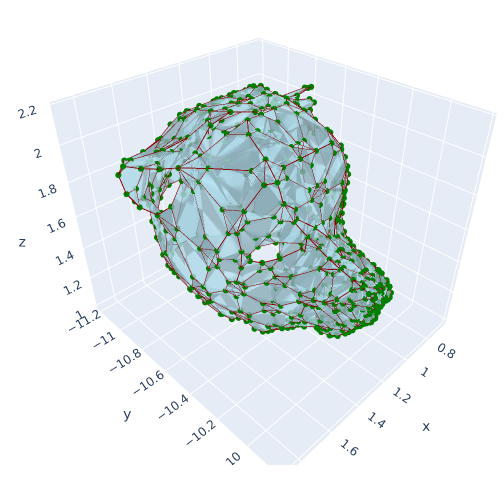
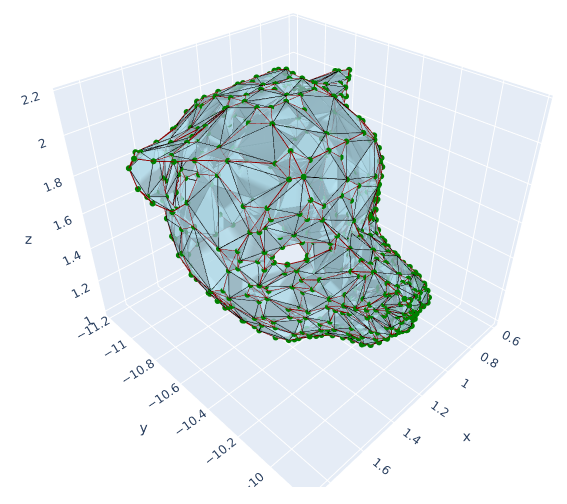
groups are stored on-load

diff --git a/polyhedron.py b/polyhedron.py
@@ -8,12 +8,13 @@ from dataholders import VirtualDict, VirtualSet
 from copy import deepcopy
 
 matrix.EPSILON = 10e-6
+MAX_GROUP_SEARCH_RECURSION = 10 # MAX_GROUP_SIZE
+VERBOSE_STEP = 10
 
 class Polyhedron:
-	def __init__(self, nodes : list[N.Node], vertex_list = None, vertex_index_list = None):
+	def __init__(self, nodes : list[N.Node], groups : list[Group] = None):
 		self.nodes = nodes
-		self.vertex_list = vertex_list
-		self.vertex_index_list = vertex_index_list
+		self.groups = groups
 
 	def __str__(self):
 		return '\n* '.join(map(str, self.nodes))
@@ -48,7 +49,7 @@ class Polyhedron:
 			for conn in node.get_connections_by_type(type_):
 				if conn not in connection_list:
 					connection_list.append(conn)
-		print('num connections (' + type_ + ') ', len(connection_list))
+		print('num connections (' + type_ + ')', len(connection_list))
 		return connection_list
 
 	@staticmethod
@@ -183,6 +184,7 @@ class Polyhedron:
 	def from_standard_vertex_lists(vertex_list : list[list[float]], vertex_index_list : list[list[int]]) -> Polyhedron:
 		# build nodes
 		nodes : list[N.Node] = list(map(N.Node.from_point, vertex_list))
+		groups : list[Group] = []
 		to_connect = []
 		# connect using the index list
 		for i in range(len(vertex_index_list)):
@@ -197,6 +199,8 @@ class Polyhedron:
 			# connect later
 			if group.size > 3:
 				to_connect.append(group)
+			# add group to list
+			groups.append(group)
 
 		# connect later
 		for ogroup in to_connect:
@@ -204,7 +208,7 @@ class Polyhedron:
 			ogroup.inter_connect('graphical', order_first = True)
 
 		# return polyhedron
-		return Polyhedron(nodes, vertex_list, vertex_index_list)
+		return Polyhedron(nodes, groups)
 
 	@staticmethod
 	def Chaikin3D(polyhedron : Polyhedron, n : int = 4, verbose : bool = False, file_mode : bool = False) -> Polyhedron:
@@ -219,7 +223,7 @@ class Polyhedron:
 		node_virt_dict : VirtualDict = VirtualDict()
 		new_connections : list[C.Connection] = []
 
-		print('Creating a deepcopy of the polyhedron nodes...')
+		if verbose: print('Creating a deepcopy of the polyhedron nodes...')
 		old_nodes = deepcopy(polyhedron.nodes)
 		sub_node_count = 0
 
@@ -227,7 +231,7 @@ class Polyhedron:
 		total_nodes = len(polyhedron.nodes)
 		if verbose: print('Calculating new node positions for {} verticies'.format(total_nodes))
 		for node_index,current_node in enumerate(polyhedron.nodes):
-			if verbose and node_index % 100 == 0: print('[{}/{}] done ({:.2f}%)'.format(node_index, total_nodes, 100 * node_index / total_nodes))
+			if verbose and node_index % VERBOSE_STEP == 0: print('[{}/{}] done ({:.2f}%)'.format(node_index, total_nodes, 100 * node_index / total_nodes))
 			#print('\ncurrent node:', current_node)
 			# create sub-nodes
 			num_new_connections = num_graphical_nodes = 0
@@ -286,37 +290,45 @@ class Polyhedron:
 		chaikin_group_list : list[Group] = []
 		processed_groups = VirtualSet()
 		if verbose: print('Reconnect the new nodes (using the old nodes as starting point)')
-		for old_node_index,old_node in enumerate(old_nodes):
-			if verbose and old_node_index % 100 == 0: print('[{}/{}] done (old nodes) ({:.2f}%)'.format(old_node_index, total_nodes, 100 * old_node_index / total_nodes))
-			# find all the old groups that this 'old_node' is part of
-			old_group_list : list[VirtualSet] = Polyhedron._find_chaikin_groups_for_node(old_node)
-			for old_group in filter(lambda g: g not in processed_groups, old_group_list):#	and Polyhedron._nec_group_cond(g), old_group_list):
-				new_group : VirtualSet = VirtualSet()
-				for old_node_2 in old_group:
-					new_nodes = node_virt_dict[old_node_2]
-					for new_node in new_nodes:
-						for other_old_node in old_group:
-							if old_node_2 != other_old_node and any([C.Connection.are_connected(new_node, other_new_node) for other_new_node in node_virt_dict[other_old_node]]):
-								break
-						else:
-							continue
-						# found
-						new_group.add(new_node)
-						# don't break because there are two new nodes per old node
+		for index,old_group in enumerate(polyhedron.groups):
+			if verbose and index % VERBOSE_STEP == 0: print('[{}/{}] done (old nodes) ({:.2f}%)'.format(index, total_nodes, 100 * old_node_index / total_nodes))
+			new_group : VirtualSet = VirtualSet()
+			for old_node_2 in old_group:
+				new_nodes = node_virt_dict[old_node_2]
+				for new_node in new_nodes:
+					for other_old_node in old_group:
+						if old_node_2 != other_old_node and any([C.Connection.are_connected(new_node, other_new_node) for other_new_node in node_virt_dict[other_old_node]]):
+							break
+					else:
+						continue
+					# found
+					new_group.add(new_node)
+					# don't break because there are two new nodes per old node
 
-				if new_group not in chaikin_group_list:
-					chaikin_group_list.append(new_group)
-				processed_groups.add(old_group)
+			if new_group not in chaikin_group_list:
+				chaikin_group_list.append(new_group)
+			processed_groups.add(old_group)
 
 		total_groups = len(chaikin_group_list)
 		group_objects = list(map(Group, chaikin_group_list))
 		if verbose: print('Ordering the groups ({})'.format(total_groups))
 		#print('num raw groups:', len(group_objects))
-		for group in group_objects: group.order()
+		i = 0
+		total = len(group_objects)
+		max_group_size = MAX_GROUP_SEARCH_RECURSION + 3
+		while i < total:
+			group = group_objects[i]
+			if verbose and i % VERBOSE_STEP == 0: print('[{}/{}] done ({:.2f}%)'.format(i, total_groups, 100 * i / total_groups))
+			if group.size > max_group_size:
+				group_objects.pop(i)
+				total -= 1
+				continue
+			group.order()
+			i += 1
 
 		if verbose: print('Connecting the groups ({})'.format(total_groups))
 		for i,group in enumerate(group_objects):
-			if verbose and i % 100 == 0: print('[{}/{}] done ({:.2f}%)'.format(i, total_groups, 100 * i / total_groups))
+			if verbose and i % VERBOSE_STEP == 0: print('[{}/{}] done ({:.2f}%)'.format(i, total_groups, 100 * i / total_groups))
 			group.inter_connect('graphical')
 
 		# construct new node list
@@ -371,14 +383,29 @@ class Polyhedron:
 		return chaikin_group_set_list
 
 	@staticmethod
-	def _rec_find_chaikin_group_with_plane(start_node : N.Node, end_node : N.Node, second_node : N.Node, current_node : N.Node, current_group : VirtualSet, plane : matrix.Plane) -> list[VirtualSet]:
+	def _rec_find_chaikin_group_with_plane(start_node : N.Node, end_node : N.Node, second_node : N.Node, current_node : N.Node, current_group : VirtualSet, plane : matrix.Plane, depth : int = 0) -> list[VirtualSet]:
 
 		# end of group ?
 		if current_node == end_node:
 			return [current_group]
+		if depth > MAX_GROUP_SEARCH_RECURSION:
+			#print('RECURSION BREAK')
+			return []
 		# invalid node ?
 		if current_node in current_group or not plane.point_on_plane(current_node.coords):
 			return []
+		'''
+		else:
+			for i in range(len(current_group) - 1):
+				if not C.Connection.are_connected(current_group[i], current_group[i + 1], 'main'):
+					raise Exception('hm')
+				if i > 2:
+					if current_group[i].coords in map(lambda n: n.coords, list(current_group[:i]) + list(current_group[i+1:])):
+						raise Exception('hm2')
+			if not all([plane.point_on_plane(node.coords) for node in current_group]):
+				print('yes')
+			print(len(current_group))
+		'''
 
 		# add to group
 		current_group.add(current_node)
@@ -394,7 +421,8 @@ class Polyhedron:
 				second_node,
 				partner_node,
 				current_group.copy(),
-				plane
+				plane,
+				depth + 1
 			)
 			# add unique groups
 			for group in sub_local_group_set_list:

diff --git a/dataholders.py b/dataholders.py
@@ -30,11 +30,15 @@ class VirtualDict:
 class VirtualSet:
     def __init__(self, iterable = []):
         self.data = []
-        for value in iterable:
-            if value not in self.data:
-                self.data.append(value)
+        if iterable:
+            if type(iterable) == VirtualSet or type(iterable) == set:
+                self.data = list(iterable)
             else:
-                print('Warning: doublon in VirtualSet initial-data iterable')
+                for value in iterable:
+                    if value not in self.data:
+                        self.data.append(value)
+                    else:
+                        print('Warning: doublon in VirtualSet initial-data iterable')
         self.size = len(self.data)
 
     def __str__(self):
@@ -67,6 +71,6 @@ class VirtualSet:
         return self.data.pop(0)
 
     def copy(self):
-        return VirtualSet(self.data.copy())
+        return VirtualSet(self)
 
 #

diff --git a/node.py b/node.py
@@ -13,8 +13,7 @@ class Node:
 	def __eq__(self, other : Node) -> bool:
 		return self.x == other.x and \
 				self.y == other.y and \
-				self.z == other.z and \
-				self.num_connections == other.num_connections
+				self.z == other.z
 
 	def __str__(self) -> str:
 		return f'[({self.x:.2f},{self.y:.2f},{self.z:.2f}); num_connections = {self.num_connections}]'
